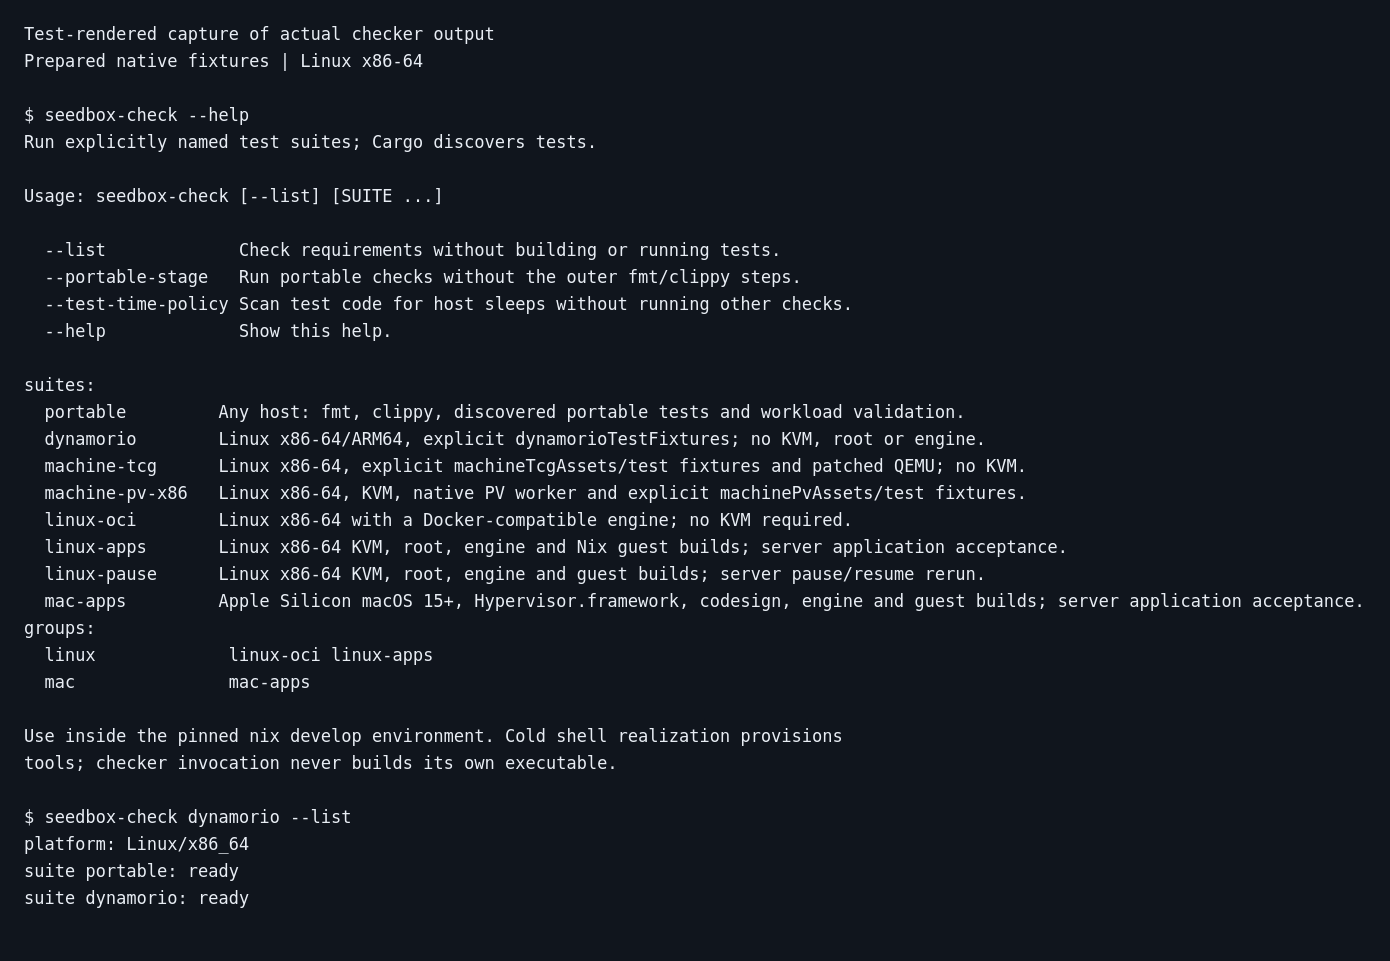
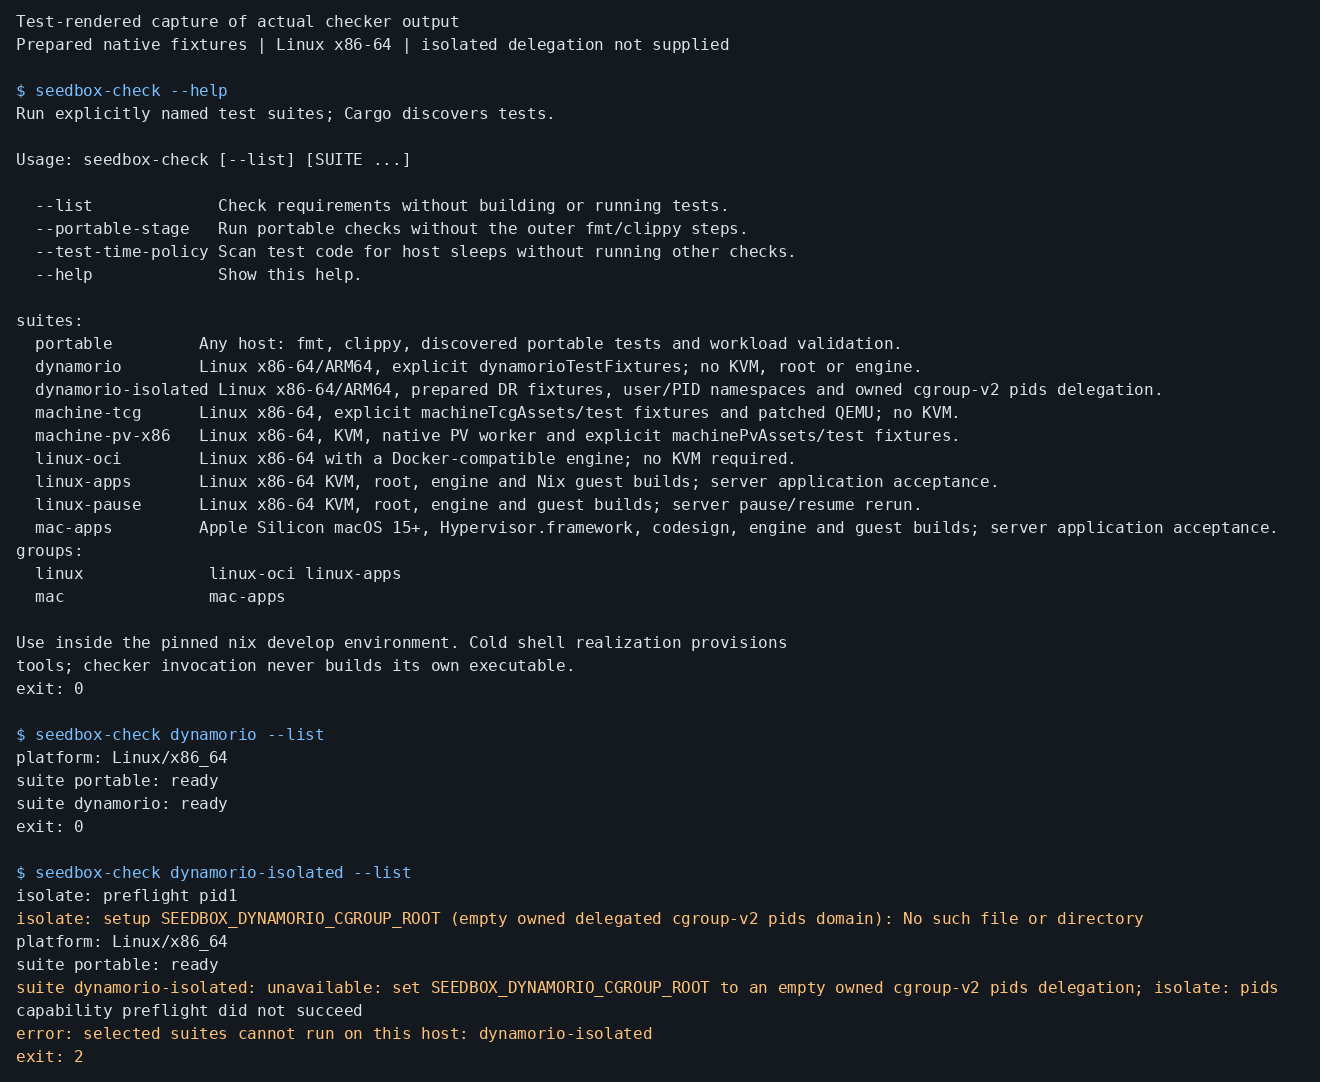
test(dr): harden isolation cleanup and require prepared capabilities

diff --git a/crates/seedbox-machine/tests/dynamorio/isolate.c b/crates/seedbox-machine/tests/dynamorio/isolate.c
@@ -17,6 +17,7 @@
 #include <sys/stat.h>
 #include <sys/statfs.h>
 #include <sys/types.h>
+#include <sys/syscall.h>
 #include <sys/wait.h>
 #include <time.h>
 #include <unistd.h>
@@ -178,6 +179,9 @@ static int wait_owned(int signals)
 
 int main(int argc, char **argv)
 {
+    pid_t initial_parent = getppid();
+    if (prctl(PR_SET_PDEATHSIG, SIGKILL) < 0 || getppid() != initial_parent)
+        return setup_error("controller parent-death containment");
     struct rlimit no_core = {0, 0};
     if (setrlimit(RLIMIT_CORE, &no_core)) return setup_error("disable owned core dumps");
     int preflight = argc > 1 && !strcmp(argv[1], "preflight");
@@ -215,13 +219,13 @@ int main(int argc, char **argv)
     if (!preflight && (argc <= index + 1 || strcmp(argv[index++], "--"))) goto usage;
     if (preflight && argc != index) goto usage;
     signal(SIGPIPE, SIG_IGN);
-    sigset_t blocked;
+    sigset_t blocked, original_mask;
     sigemptyset(&blocked);
     sigaddset(&blocked, SIGCHLD);
     sigaddset(&blocked, SIGTERM);
     sigaddset(&blocked, SIGINT);
     sigaddset(&blocked, SIGHUP);
-    if (sigprocmask(SIG_BLOCK, &blocked, NULL) < 0 ||
+    if (sigprocmask(SIG_BLOCK, &blocked, &original_mask) < 0 ||
         prctl(PR_SET_CHILD_SUBREAPER, 1) < 0) return setup_error("controller signals");
     int signals = signalfd(-1, &blocked, SFD_CLOEXEC);
     if (signals < 0) return setup_error("controller signalfd");
@@ -234,6 +238,8 @@ int main(int argc, char **argv)
     int gate[2];
     if (pipe2(gate, O_CLOEXEC) < 0) return setup_error("launch gate");
     pid_t controller = getpid();
+    int controller_handle = (int)syscall(SYS_pidfd_open, controller, 0);
+    if (controller_handle < 0) return setup_error("controller pidfd");
     owned = fork();
     if (owned < 0) return setup_error("fork tracee");
     if (!owned) {
@@ -248,13 +254,21 @@ int main(int argc, char **argv)
         if (privileged && (setgroups(0, NULL) < 0 || setgid(run_gid) < 0 ||
                            setuid(run_uid) < 0 || prctl(PR_SET_NO_NEW_PRIVS, 1, 0, 0, 0) < 0))
             _exit(125);
-        sigprocmask(SIG_UNBLOCK, &blocked, NULL);
+        /* Dropping credentials clears PDEATHSIG. Re-arm it, then use the
+         * inherited pidfd to close the parent-death race even when getppid()
+         * is intentionally zero inside the new PID namespace. */
+        if (prctl(PR_SET_PDEATHSIG, SIGKILL) < 0) _exit(125);
+        struct pollfd controller_state = { .fd = controller_handle, .events = POLLIN };
+        if (poll(&controller_state, 1, 0) != 0) _exit(125);
+        close(controller_handle);
+        sigprocmask(SIG_SETMASK, &original_mask, NULL);
         if (preflight) _exit(!pid1 || getpid() == 1 ? 0 : 125);
         execvp(argv[index], &argv[index]);
         dprintf(STDERR_FILENO, "isolate: exec %s: %s\n", argv[index], strerror(errno));
         _exit(125);
     }
     close(gate[0]);
+    close(controller_handle);
     if (setpgid(owned, owned) < 0 && errno != EACCES) return setup_error("owned process group");
     if (pids) {
         char value[80];
@@ -281,7 +295,10 @@ int main(int argc, char **argv)
     if (WIFSIGNALED(status)) {
         int sig = WTERMSIG(status);
         signal(sig, SIG_DFL);
-        sigprocmask(SIG_UNBLOCK, &blocked, NULL);
+        sigset_t fatal;
+        sigemptyset(&fatal);
+        sigaddset(&fatal, sig);
+        sigprocmask(SIG_UNBLOCK, &fatal, NULL);
         raise(sig);
         return 128 + sig;
     }

diff --git a/tools/dynamorio-ci/cgroup.py b/tools/dynamorio-ci/cgroup.py
@@ -59,12 +59,15 @@ def launch(args):
     root.mkdir(mode=0o700)  # exclusive; never adopt an existing resource
     child = None
     reaped = False
+    gate_read = gate_write = -1
     try:
         write(root / "cgroup.subtree_control", "+pids")
         for path in [root, *(root / name for name in (
             "cgroup.procs", "cgroup.threads", "cgroup.subtree_control"
         ))]:
             os.chown(path, args.uid, args.gid)
+        if not (root / "cgroup.kill").exists():
+            raise RuntimeError("cgroup.kill is required for owned descendant cleanup")
         controller = root / "controller"
         controller.mkdir()
         gate_read, gate_write = os.pipe2(os.O_CLOEXEC)
@@ -90,9 +93,11 @@ def launch(args):
                 print(f"isolate: exec normal-user command: {error}", file=sys.stderr)
                 os._exit(125)
         os.close(gate_read)
+        gate_read = -1
         write(controller / "cgroup.procs", str(child))
         os.write(gate_write, b"1")
         os.close(gate_write)
+        gate_write = -1
         _, status = os.waitpid(child, 0)
         reaped = True
         return os.waitstatus_to_exitcode(status)
@@ -100,7 +105,15 @@ def launch(args):
         signal.pthread_sigmask(signal.SIG_BLOCK, {signal.SIGTERM, signal.SIGINT, signal.SIGHUP})
         # Kill only this uniquely created domain, including any surviving test
         # leaves. The supervisor itself stays outside and can always reap.
-        write(root / "cgroup.kill", "1")
+        for descriptor in [gate_read, gate_write]:
+            if descriptor >= 0:
+                os.close(descriptor)
+        # A failure to move the still-gated child leaves it OUTSIDE the domain.
+        # It is unreaped, so its PID is reserved and safe to kill directly.
+        if child is not None and not reaped:
+            os.kill(child, signal.SIGKILL)
+        if (root / "cgroup.kill").exists():
+            write(root / "cgroup.kill", "1")
         if child is not None and not reaped:
             os.waitpid(child, 0)
         wait_empty(root)

diff --git a/crates/seedbox-machine/tests/dynamorio_isolated.rs b/crates/seedbox-machine/tests/dynamorio_isolated.rs
@@ -4,3 +4,43 @@
     any(target_arch = "x86_64", target_arch = "aarch64")
 ))]
 // The Unix owner's frozen isolated_cases module is wired here at integration.
+
+use seedbox_test::process::Guarded;
+use std::{path::PathBuf, process::Command};
+
+fn preflight(mode: &str) {
+    let fixtures = PathBuf::from(
+        std::env::var_os("SEEDBOX_DYNAMORIO_FIXTURES")
+            .expect("set SEEDBOX_DYNAMORIO_FIXTURES to prepared fixtures"),
+    );
+    let selected = if mode == "pid1" {
+        std::env::var_os("SEEDBOX_DYNAMORIO_PID1_LAUNCHER").map(PathBuf::from)
+    } else {
+        None
+    };
+    let mut command =
+        Command::new(selected.unwrap_or_else(|| fixtures.join("bin/seedbox-dr-isolate")));
+    command.arg("preflight").arg(mode).env_clear();
+    if let Some(root) = std::env::var_os("SEEDBOX_DYNAMORIO_CGROUP_ROOT") {
+        command.env("SEEDBOX_DYNAMORIO_CGROUP_ROOT", root);
+    }
+    let output = command
+        .guarded_output()
+        .expect("start scoped capability preflight");
+    assert!(
+        output.status.success(),
+        "{mode} setup failed: {}",
+        String::from_utf8_lossy(&output.stderr)
+    );
+    assert!(String::from_utf8_lossy(&output.stderr).contains(&format!("isolate: preflight {mode}")));
+}
+
+#[test]
+fn namespace_fixture_executes_as_actual_pid1() {
+    preflight("pid1");
+}
+
+#[test]
+fn process_limit_fixture_requires_an_owned_delegation() {
+    preflight("pids");
+}

diff --git a/crates/seedbox-check/src/policy.rs b/crates/seedbox-check/src/policy.rs
@@ -289,6 +289,12 @@ pub fn requirements(suite: Suite, host: &Host, env: &Environment, root: &Path) -
             );
         }
         if suite == Suite::DynamorioIsolated {
+            for name in ["bin/unix-pid1", "bin/unix-eagain", "bin/unix-supervisor"] {
+                need(
+                    fixtures.is_some_and(|p| executable(&p.join(name))),
+                    format!("prepared {name} is required for isolated fixtures"),
+                );
+            }
             need(
                 fixtures.is_some_and(|p| executable(&p.join("bin/seedbox-dr-isolate"))),
                 "prepared bin/seedbox-dr-isolate is required".into(),

diff --git a/crates/seedbox-machine/tests/dynamorio/pid1-launch.py b/crates/seedbox-machine/tests/dynamorio/pid1-launch.py
@@ -26,5 +26,5 @@ if not sudo:
     sys.exit("isolate: setup PID namespace denied; scoped sudo launcher unavailable")
 # The immutable Nix-store helper creates only the PID namespace; before exec,
 # its child drops every supplementary group and the requested normal uid/gid.
-os.execv(sudo, [sudo, "-n", launcher, *prefix, "--as-user", str(os.getuid()),
+os.execv(sudo, [sudo, "-n", "--preserve-env=DYNAMORIO_CONFIGDIR", launcher, *prefix, "--as-user", str(os.getuid()),
                str(os.getgid()), *suffix])

diff --git a/crates/seedbox-check/src/tests.rs b/crates/seedbox-check/src/tests.rs
@@ -1680,6 +1680,9 @@ fn isolated_dr_requires_positive_preflights_without_root_or_kvm_probes() {
     }
     for name in [
         "bin/seedbox-dr-isolate",
+        "bin/unix-pid1",
+        "bin/unix-eagain",
+        "bin/unix-supervisor",
         "bin/application",
         "runtime/bin64/drrun",
     ] {
